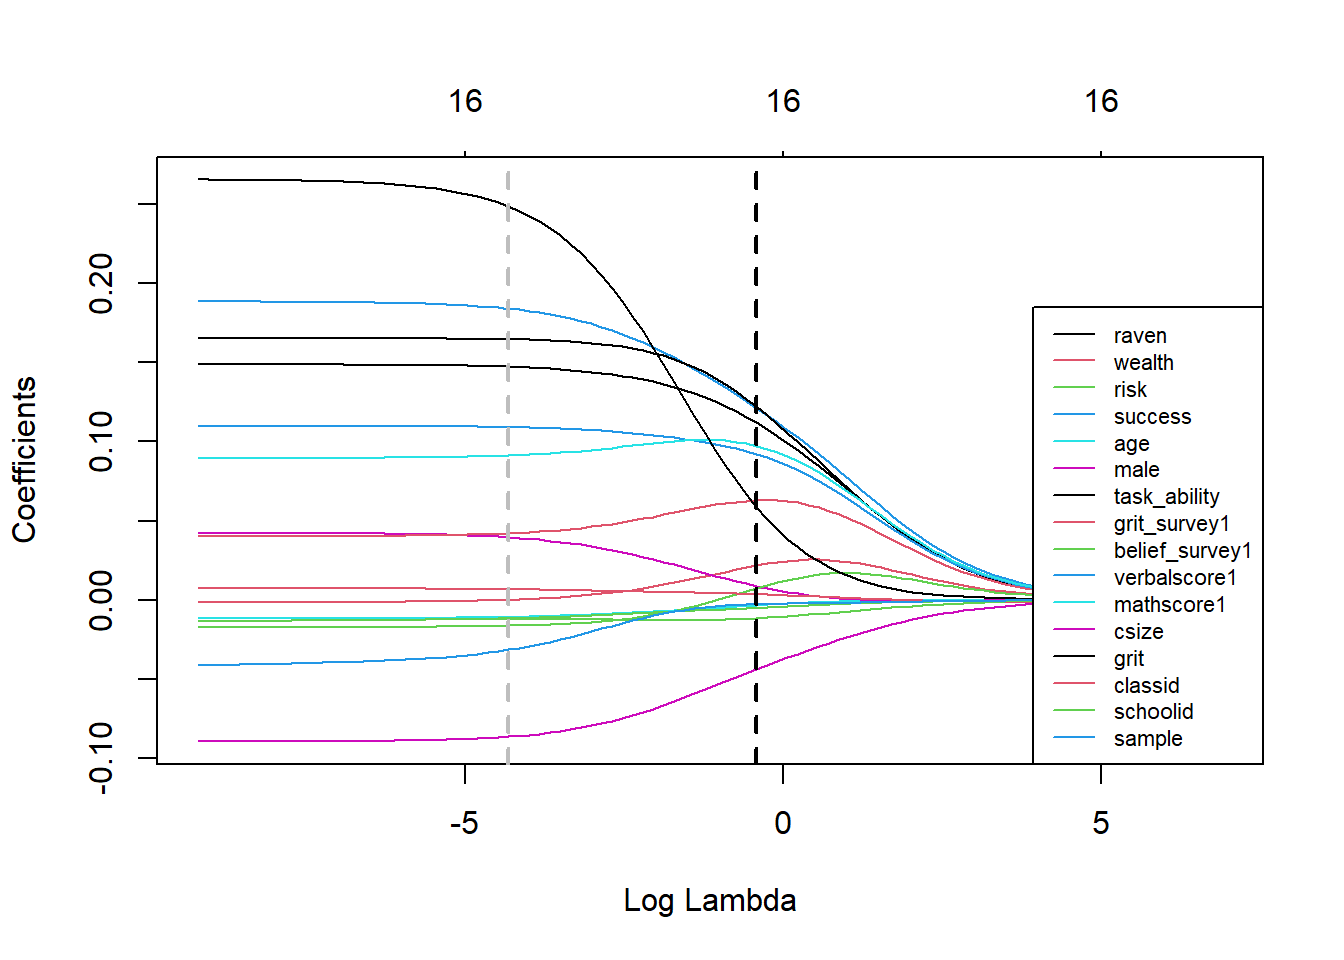
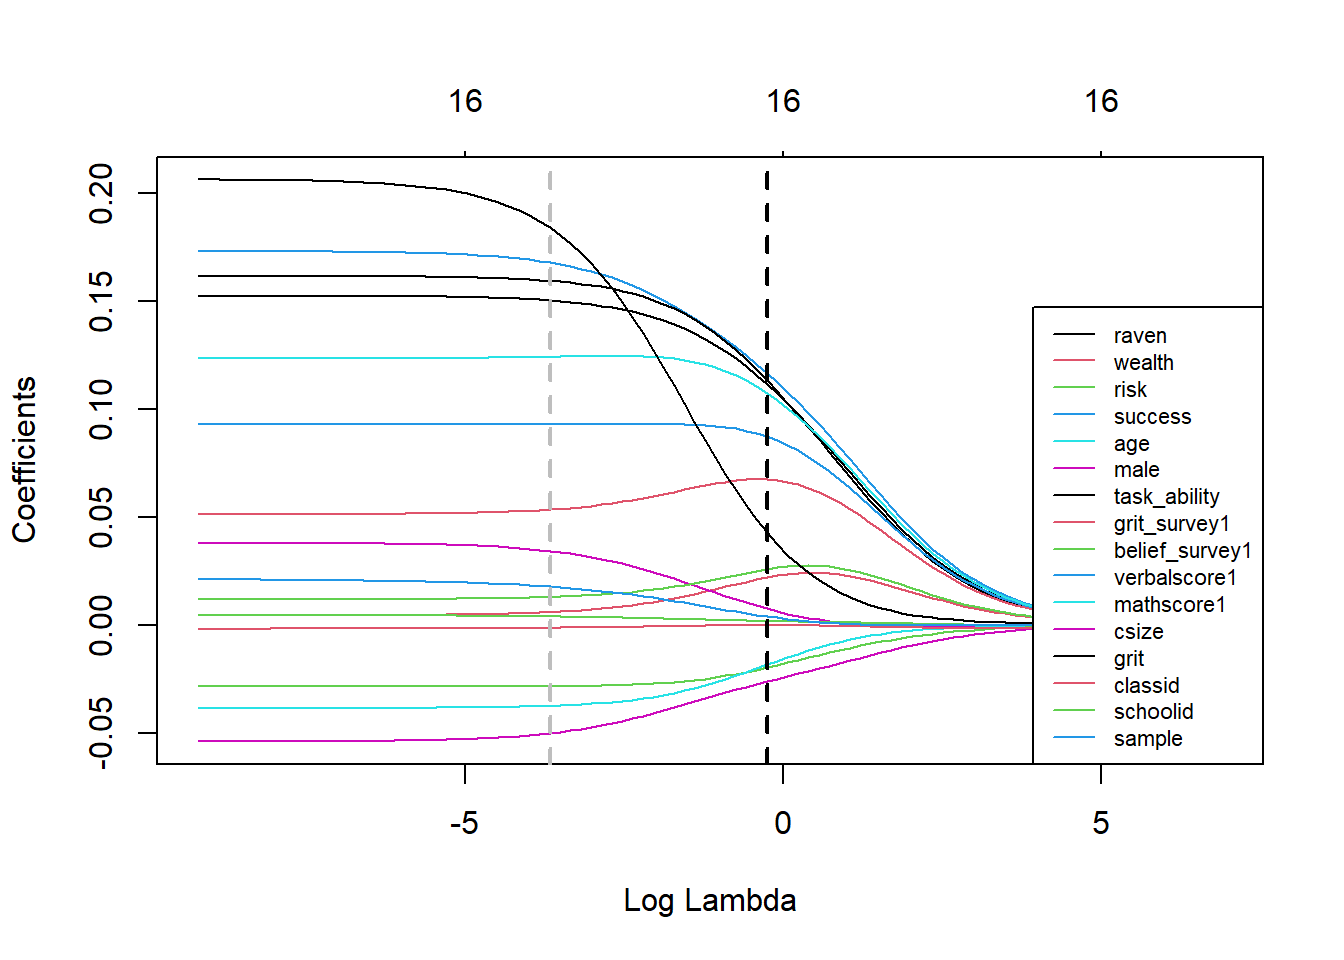
Math Grit Matching part4 updated conclusion

diff --git a/content/post/2021-03-31-math-grit-and-matching-part-4/index.en.html b/content/post/2021-03-31-math-grit-and-matching-part-4/index.en.html
@@ -24,22 +24,22 @@ projects: []
 <p>In the first section it is explained what model dependence is. Next, we discuss remedies, which consist of regularization and matching methods. Finally, I carry out a preferred matching method and see what happens to the estimated effect size.</p>
 <div id="model-dependence" class="section level2">
 <h2>Model dependence</h2>
-<p>The standard practice of model fitting goes something like this. Fit a line through the data. If it doesn’t match closely, transform the data or fit some kind of curve that follows the data more closely. Then look at the distance of the errors from the curve and possibly change the distribution that models the spread of the errors. This procedure seems reasonable. However, apart from the risk of overfitting, there is a lot of freedom for researchers to choose a model that inflates the desired result.</p>
+<p>The standard practice of model fitting goes something like this. Fit a line (or hyperplane) through the data. If it doesn’t match closely, transform the data or fit some kind of curve (or curved hypersurface) that follows the data more closely. Then look at the distance of the errors from the curve and possibly change the distribution that models the spread of the errors. This procedure seems reasonable. However, apart from the risk of overfitting, there is a lot of freedom for researchers to choose a model that inflates the desired result.</p>
 <p>Similarly, researchers choose whether to include variables or not in their models. In fact, we saw in part 2 that the exclusion of variables had a sizable effect on the estimation of the effect of <code>grit</code>. The result is, in other words, not robust to variable selection.</p>
-<p>These phenomena are referred to as ‘model dependance’, which arises from ‘researcher degrees of freedom’ (in choosing variables and choosing a model). The danger of inflating results is not imaginary, given that even the social science results published in the best journals <a href="https://www.nature.com/articles/s41562-018-0399-z">often fail to replicate</a>.</p>
-<p>If one wanted to show the amount of model dependence, one would have to run hundreds of thousands of models, including all the combinations of selected variables, interactions, squared terms, etc. We will not do that here (but see <a href="https://gking.harvard.edu/files/abs/counterf-abs.shtml">this paper</a> for an interesting approach). As we already noted significant model dependence in part 2 of this series, we focus on ways to reduce model dependance.</p>
+<p>These phenomena are referred to as ‘model dependence’, which arises from ‘researcher degrees of freedom’ (in choosing variables and choosing a model). The danger of inflating results is not imaginary, given that even the social science results published in the best journals <a href="https://www.nature.com/articles/s41562-018-0399-z">often fail to replicate</a>.</p>
+<p>If one wanted to show the amount of model dependence, one would have to run hundreds of thousands of models, including all the combinations of selected variables, interactions, squared terms, etc. We will not do that here (but see <a href="https://gking.harvard.edu/files/abs/counterf-abs.shtml">this paper</a> for an interesting approach). As we already noted significant model dependence in part 2 of this series, we focus on ways to reduce model dependence.</p>
 <p>In the next section we try to reduce researcher influence on variable selection. We then, in the final section, use matching methods in which we prune data points until we are left with closely matched pairs of subjects that are in the treatment and control groups.</p>
 <div id="ridge-and-lasso-regression" class="section level3">
 <h3>Ridge and Lasso regression</h3>
 <p>Our goal in this section is to minimize the influence of the researcher on variable selection by letting a penalized regression algorithm choose them for us. Just as in ordinary least squares regression, in penalized regression coefficients are optimized with regard to minimizing the squared distance of the predicted values to the outcome. However, a term is added to the optimization formula that penalizes the addition of coefficients. The result is that coefficients have to do more explanatory work to make it into the model. The promise of penalized regression for us is that it can tell us which variables make it to the next phase of the analysis.</p>
 <p>There are two important ways in which the penalty term can be evaluated. To understand this, we must be a little bit more precise in our mathematical terminology. In order to minimize something we need a norm that gives us measuring tools for saying how big the thing is that we are minimizing. The L2 norm tells us to square the absolute difference between two vectors (the outcomes y and the predictions based on the vectors of coefficients multiplied by the data matrix). The choice of for L2 norm results in ridge regression. See the formula below.
 <img src="Ridge_norm.png" />
-The value of lambda is chosen by cross validation. In this method the data set is split into a training set and a test set. After building the model based on the training data, it is evaluated on the test data set, which it has not seen before. Specifically, we run the model for lots of values of lambda in a reasonable interval and choose the one that minimizes the error in a test data set.</p>
-<p>If we do not square the coefficient term and just take its absolute value, we are using an L1 norm. It results in lasso regression. For more on norms, see <a href="https://www.youtube.com/watch?v=NcPUI7aPFhA&amp;list=PLUl4u3cNGP63oMNUHXqIUcrkS2PivhN3k&amp;index=10">this lecture</a>.
+The value of lambda is chosen by cross validation. In cross validation the data set is split into a training set and a test set. After building the model based on the training data, it is evaluated on the test data set, which it has not seen before. Specifically, we run the model for lots of values of lambda in a reasonable interval and choose the one that minimizes the error in a test data set (or multiple test data sets after splitting the data many times).</p>
+<p>By contrast, if we do not <em>square</em> the coefficient term and just take its absolute value, we are using an L1 norm. It results in lasso regression. For more on norms, see <a href="https://www.youtube.com/watch?v=NcPUI7aPFhA&amp;list=PLUl4u3cNGP63oMNUHXqIUcrkS2PivhN3k&amp;index=10">this lecture</a>.
 <img src="Lasso_norm.png" />
-Lasso more aggressively eliminates coefficients.</p>
+Lasso more aggressively eliminates coefficients than ridge regression. This has to do with the norms. In the L2 norm (in ridge), small coefficients are penalized less severely than in L1. After all, in L2 coefficients are squared in the penalty term. If they have absolute value &lt; 1 (and are nonzero), then squaring them makes the penalty for adding them smaller. So they stay in the model for longer.</p>
 <p>Both Lasso and Ridge regression are equivalent to a Bayesian regression with a harsh prior. This point of view is much more elegant, but I will stick with the regular interpretation here. Read more on the Bayesian point of view on Lasso and Ridge regression <a href="https://bjlkeng.github.io/posts/probabilistic-interpretation-of-regularization/">here</a>.</p>
-<p>So let us apply these methods to out data set. Although we want to minimize the influence of the researcher, we hand pick only those variables that were measured before the outcome (<code>mathscore2</code>) was measured. Otherwise the results of the model are not sensible. We also scale variables that were not scaled already, so that they are weighted equally by the penalty term lambda.</p>
+<p>So let us apply these methods to our data set. Although we want to minimize the influence of the researcher, we hand pick only those variables that were measured before the outcome (<code>mathscore2</code>) was measured. Otherwise the results of the model are not sensible. We also scale variables that were not scaled already, so that they are weighted equally by the penalty term lambda.</p>
 <pre class="r"><code>grit &lt;- bind_rows(sample1,sample2) %&gt;% 
         filter(inconsistent==&#39;0&#39;) %&gt;% 
         select(raven,wealth,risk,success,age,male, task_ability, grit_survey1,belief_survey1,
@@ -78,7 +78,7 @@ ridge_cv &lt;- cv.glmnet(X, y, alpha = 0, lambda = lambdas_to_try,
 plot(ridge_cv)</code></pre>
 <p><img src="/post/2021-03-31-math-grit-and-matching-part-4/index.en_files/figure-html/unnamed-chunk-4-1.png" width="672" />
 The dotted vertical line on the left shows the value of (the log of) lambda for which the mean squared error in the test data set is minimal. The dotted line to the right adds one standard error to this value and is often used because it is more conservative. There is no deep theory behind choosing this value. It is rather an extra barrier against overfitting that <a href="https://stats.stackexchange.com/questions/138569/why-is-lambda-within-one-standard-error-from-the-minimum-is-a-recommended-valu">works well in practice</a>.</p>
-<p>The number 16 on top of the graph refers to the number of coefficients that are left in the model. Because of the L2 norm for the penalty term in ridge regression, small coefficients are penalized less severely than in L1. The reason is that squaring nonzero coefficients with absolute value &lt; 1 makes them smaller in absolute terms and hence decreases the penalty term.</p>
+<p>The number 16 on top of the graph refers to the number of coefficients that are left in the model.</p>
 <pre class="r"><code># setting alpha to 1 results in lasso regression
 lasso_cv &lt;- cv.glmnet(X, y, alpha = 1, 
                       standardize = FALSE, nfolds = 10)
@@ -90,7 +90,7 @@ legend(&quot;bottomright&quot;, lwd = 1, col = 1:6, legend = colnames(X), cex = 
 abline(v=log(ridge_cv$lambda.min), col=&#39;grey&#39;, lwd=2, lty=&quot;dashed&quot;)
 abline(v=log(ridge_cv$lambda.1se), col=&#39;black&#39;, lwd=2, lty=&quot;dashed&quot;)</code></pre>
 <p><img src="/post/2021-03-31-math-grit-and-matching-part-4/index.en_files/figure-html/unnamed-chunk-5-1.png" width="672" />
-In the plot above we see how coefficients shrink by increasing the value of lambda in ridge regression. The dashed grey line shows the log of lambda for which the mean squared error in the test set in minimal and the black dashed line adds one standard error to this value. We see that indeed none of the coefficients shrinks to zero for either lambda.</p>
+In the plot above we see how coefficients shrink by increasing the value of lambda in ridge regression. The dashed grey line shows the log of lambda for which the mean squared error in the test set in minimal and the black dashed line denotes the log of the minimizing lambda plus a standard error. We see that indeed none of the coefficients shrinks to zero for either lambda.</p>
 <p>Let’s repeat the analysis for the L1 norm, which leads to lasso regression.</p>
 <pre class="r"><code># Set alpha to 1 to get lasso
 lasso_cv &lt;- cv.glmnet(X, y, alpha = 1, 
@@ -109,29 +109,29 @@ Choosing lambda plus one SE gets rid of the bunch of coefficients that may not b
 <pre class="r"><code>coef(lasso_cv, s = lasso_cv$lambda.1se)</code></pre>
 <pre><code>## 17 x 1 sparse Matrix of class &quot;dgCMatrix&quot;
 ##                            1
-## (Intercept)     0.0240899596
-## raven           0.1282562630
+## (Intercept)     1.850032e-02
+## raven           1.420646e-01
 ## wealth          .           
 ## risk            .           
-## success         0.1773367113
-## age             .           
+## success         1.693490e-01
+## age            -3.312078e-04
 ## male            .           
-## task_ability    0.1464104673
-## grit_survey1    0.0191930761
+## task_ability    1.385986e-01
+## grit_survey1    3.857172e-02
 ## belief_survey1  .           
-## verbalscore1    0.0846532468
-## mathscore1      0.0939515697
-## csize          -0.0129247253
-## grit            0.0012220676
-## classid         0.0005707588
+## verbalscore1    7.797953e-02
+## mathscore1      1.289663e-01
+## csize           .           
+## grit            2.093561e-02
+## classid         9.381892e-05
 ## schoolid        .           
 ## sample          .</code></pre>
-<p>If we go with this value of lambda, we are left with verbalscore1, mathscore1, csize, grit, classid, grit_survey1 and raven. Let’s check out the ramifications of these variable selections as we now turn to matching.</p>
+<p>If we go with this value of lambda, we are left with the variables verbalscore1, mathscore1, csize, grit, classid, grit_survey1 and raven. Let’s check out the ramifications of these variable selections as we now turn to matching.</p>
 </div>
 </div>
 <div id="methods-of-matching" class="section level2">
 <h2>Methods of Matching</h2>
-<p>There are several methods of ‘mathing’ - that is, pruning data until we are left with closely matched pairs of observations that we can compare. We first discuss the most popular one, propensity score matching, and the problems that come with it. We then lay out a preferred alternative method.</p>
+<p>There are several methods of ‘matching’ - that is, pruning data until we are left with closely matched pairs of observations that we can compare. We first discuss the most popular one, propensity score matching, and the problems that come with it. We then lay out a preferred alternative method.</p>
 <div id="propensity-score-matching" class="section level3">
 <h3>Propensity Score Matching</h3>
 <p>The idea behind propensity score matching is to make a model that predicts which individual is assigned to the treatment group. Since an individual is either in the treatment or control condition, this model predicts a binary variable and can be for example a logistic model. It is then possible to compare pairs of individuals that were equally likely to get the treatment, but where one actually got the treatment and one didn’t.</p>
@@ -153,7 +153,7 @@ Choosing lambda plus one SE gets rid of the bunch of coefficients that may not b
 <p>We will carry out matching with varying variable selections. These variables are the criteria on which we balance the treatment and control group, so choosing them is a big deal.</p>
 <div id="author-variable-selection" class="section level3">
 <h3>Author variable selection</h3>
-<p>We start with the variables that were in the author’s original model. We use data from both waves of the study, because we hope that matching can remedy possible experimental design flaws from the first wave (note that model dependence creeps in here).</p>
+<p>We start with the variables that were in the author’s original model. We use data from both waves of the study, because we hope that matching can remedy possible experimental design flaws from the first wave (note that model dependence creeps in here - we could run the analysis with only sample2 as well).</p>
 <pre class="r"><code># combine the two waves of the Grit study and select the variables in the author&#39;s model
 sample_comb &lt;- bind_rows(sample1,sample2) %&gt;% 
   filter(inconsistent==&quot;0&quot;) %&gt;% 
@@ -172,7 +172,7 @@ glimpse(sample_comb)</code></pre>
 ## $ mathscore1     &lt;dbl&gt; 0.18841290, 1.39717412, -0.21450749, 1.39717412, -1....
 ## $ grit           &lt;dbl&gt; 0, 0, 0, 0, 0, 0, 0, 0, 0, 0, 0, 0, 0, 0, 0, 0, 0, 0...
 ## $ mathscore2     &lt;dbl&gt; 1.06037903, 0.51145208, -0.03747482, 1.06037903, -1....</code></pre>
-<p>After dropping NA values, we have 1758 observations left. The rest was left out because at least one value was missing on the variables that we selected. (An avenue that we not explore here is to first impute missing values and then perform matching.) Next, we let the algorithm in the <code>MatchingFrontier</code> package calculate the optimal imbalance for every number of pruned observations.</p>
+<p>We leave out observations where at least one value was missing on the variables that we selected and have 1758 observations left. (An avenue that we not explore here is to first impute missing values and then perform matching.) Next, we let the algorithm in the <code>MatchingFrontier</code> package calculate the optimal imbalance for every number of pruned observations.</p>
 <pre class="r"><code># collect the names of the selected variables in a vector
 data_var_sel &lt;- colnames(sample_comb)[!(colnames(sample_comb) %in% c(&#39;mathscore2&#39;, &#39;grit&#39;))]
 
@@ -185,7 +185,7 @@ frontier &lt;- makeFrontier(dataset = sample_comb,
 ## Calculating information for plotting the frontier...</code></pre>
 <pre class="r"><code>plot(frontier)</code></pre>
 <p><img src="/post/2021-03-31-math-grit-and-matching-part-4/index.en_files/figure-html/frontier-1.png" width="672" />
-We see that the Mahalanobis distance between matched pairs decreases smoothly as we prune more observations. There are quick gains for the first 500 observations that we throw away, but the improvement afterward is nothing to sniff at either.</p>
+We see that the Mahalanobis distance between matched pairs decreases smoothly as we prune more observations. There are quick gains in distance reduction for the first 500 observations that we throw away, but the improvement afterward is nothing to sniff at either.</p>
 <p>We now run the model that estimates the effect of <code>grit</code> on maths scores for every number of pruned observations.</p>
 <pre class="r"><code># We use the model from the authors of the Grit study
 my.form &lt;- as.formula(mathscore2 ~  male + raven + csize + belief_survey1 + mathscore1 + grit)
@@ -249,11 +249,11 @@ plot(mahal.estimates,
        )
 )</code></pre>
 <p><img src="/post/2021-03-31-math-grit-and-matching-part-4/index.en_files/figure-html/lasso_matching-1.png" width="672" />
-We see again that as biased is reduced, we are led to believe that the effect is quite a bit higher than we thought. Towards the end, the estimate becomes highly model dependent though as can be seen from the wide band at the end.</p>
+We see again that as biased is reduced, we are led to believe that the effect is quite a bit higher than we thought. Towards the end, the estimate becomes highly model dependent though, as can be seen from the wide band at the end.</p>
 </div>
 <div id="all-pre-treatment-variables" class="section level3">
 <h3>All pre-treatment variables</h3>
-<p>The choice for the lasso variables was based on adding a SE to the minimizing lambda. That choice could have been made differently. As were are trying to reduce model dependence, we should run the analysis with all 16 independent variables that were measured before the intervention occured.</p>
+<p>The choice for the lasso variables was based on adding a SE to the minimizing lambda. That choice could have been made differently. As we are trying to reduce model dependence, we should run the analysis with all 16 independent variables that were measured before the intervention occurred.</p>
 <pre class="r"><code>sample_comb &lt;- bind_rows(sample1,sample2) %&gt;% 
   filter(inconsistent==&quot;0&quot;) %&gt;% 
   select(raven,wealth,risk,age,male,grit_survey1,belief_survey1,
@@ -295,6 +295,17 @@ When we balance based on all pre-treatment variables, we note that the same tend
 </div>
 <div id="conclusion" class="section level2">
 <h2>Conclusion</h2>
-<p>The initial surprise over the enhanced effect size of <code>grit</code> due to matching dissipates in the end then. There is no theoretical model or motivation for the author’s variable selection. The minimizing lambda + 1 SE variable selection based on the lasso regression is supported by practitioners of the technique. But there is no theoretical basis for choosing this value of lambda over the minimizing lambda itself, which kept all variables in the model except for one.</p>
-<p>The conservative approach then is to not value the results of the lasso variable selection much more than the model using all pre-treatment variables. This suggests that the effect size may be a bit higher than about 0.2, as previous analyses suggested, but that there is too much uncertainty due to model dependence to put a number on it.</p>
+<p>What becomes clear from all of our analyses of the Grit data set is that there are many ways to spin the data. There are many choices the researcher can make that can all be supported with a plausible story. That is, the researcher can choose</p>
+<ol style="list-style-type: decimal">
+<li>the data set to analyze (sample1 or sample2 or both)</li>
+<li>the observations to leave out of the analysis (or which imputation method to use)</li>
+<li>the variables to include in the models</li>
+<li>the appropriate models to use (classical, Bayesian, multilevel, penalized regression, regression trees, matching)</li>
+<li>the specifications of the models</li>
+</ol>
+<p>For causal analysis, the matching approach we followed promises to step back from these choices and provide a method that is relatively agnostic to most of these choices. It even puts a number on the model dependence of an estimated effect so that we can gauge how subjective our results are.</p>
+<p>Yet even for this approach the selection of the appropriate data set as well as the variables to include is up to the researcher.</p>
+<p>There is a trade off here. One option is to be agnostic with respect to which variables explain <code>mathscore2</code>. In that case we may balance the treatment and control groups with respect to variables that are irrelevant and we increase uncertainty in the estimated effect size. This approach to matching suggested that the effect size may be a bit higher than about 0.2, as previous analyses suggested. However, there is massive uncertainty due to model dependence, so that the result could also be a lot smaller. The uncertainty is too big to put a number on it.</p>
+<p>The other option is to be more assertive with regard to the variables that are relevant for balancing the treatment and control group. The variables that were selected by researcher who conducted the study seem rather arbitrary and give results on the high end of the multiverse of possible effect sizes. We then let the lasso regression pick more relevant variables for us, which also led to a higher estimate of the effect of <code>grit</code>. However, if we run with this outcome, we rely on the minimizing lambda + 1 SE choice that is supported by practitioners of the technique. There is no theoretical basis for choosing this value of lambda over the minimizing lambda itself, which kept all variables in the model except for one.</p>
+<p>The realization that even a RCT can be analyzed in so many ways should not lead to the conclusion that all knowledge is relative. It should make one skeptical of the results of one particular regression though. When we resist the temptation to go with one particular model or one particular set of variables, then an effect size of about 0.2 - as was also found by the conservative matching approach - seems the most reasonable estimate. The uncertainty around this number can be expressed in so many ways (relevant area of the Bayesian posterior, in terms of the slope of the likelihood surface, amount of model dependence), that it depends on the way that the interpreter of the analysis thinks about uncertainty.</p>
 </div>
